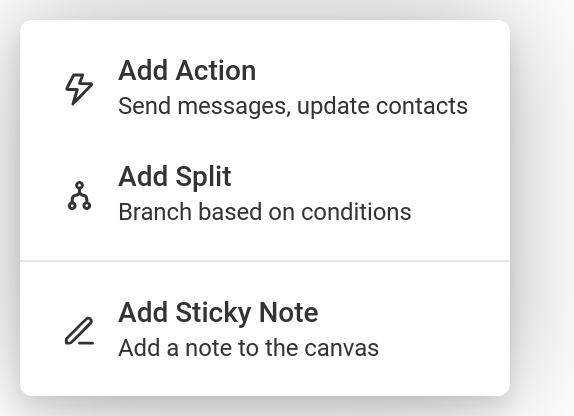
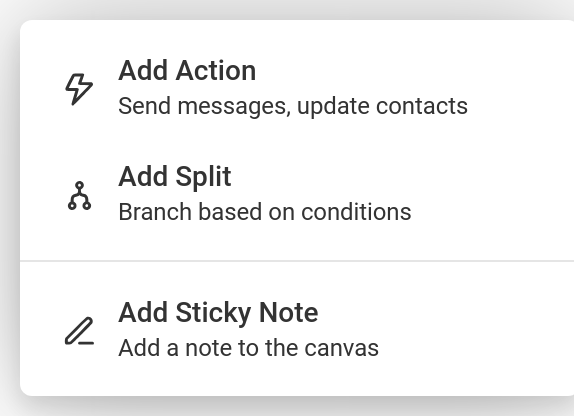
Ensure canvas menu is on screen

Changed region(s): [[0.8589, 0.0625, 1.0, 1.0]]

diff --git a/test/temba-canvas-menu.test.ts b/test/temba-canvas-menu.test.ts
@@ -106,4 +106,51 @@ describe('temba-canvas-menu', () => {
     });
     expect(menu.open).to.be.false;
   });
+
+  it('adjusts position to stay within viewport bounds', async () => {
+    const menu = await createCanvasMenu();
+
+    // open menu at position that would go off screen
+    const viewportWidth = window.innerWidth;
+    const viewportHeight = window.innerHeight;
+    const margin = 10; // matches the margin in CanvasMenu
+
+    // position that would go off the right and bottom edges
+    menu.show(viewportWidth - 50, viewportHeight - 50, {
+      x: 100,
+      y: 100
+    });
+    await menu.updateComplete;
+
+    // wait for position adjustment
+    await new Promise((resolve) => setTimeout(resolve, 100));
+    await menu.updateComplete;
+
+    const menuElement = menu.shadowRoot?.querySelector('.menu') as HTMLElement;
+    expect(menuElement).to.not.be.null;
+
+    const menuRect = menuElement.getBoundingClientRect();
+
+    // verify menu stays within viewport with margin
+    expect(menuRect.right).to.be.at.most(viewportWidth - margin);
+    expect(menuRect.bottom).to.be.at.most(viewportHeight - margin);
+
+    // verify click position is preserved (not adjusted)
+    let selectionFired = false;
+    let selectionDetail = null;
+
+    menu.addEventListener('temba-selection', (event: any) => {
+      selectionFired = true;
+      selectionDetail = event.detail;
+    });
+
+    const menuItems = menu.shadowRoot?.querySelectorAll('.menu-item');
+    const actionItem = menuItems?.[0] as HTMLElement;
+    actionItem.click();
+    await menu.updateComplete;
+
+    expect(selectionFired).to.be.true;
+    // click position should remain unchanged
+    expect(selectionDetail.position).to.deep.equal({ x: 100, y: 100 });
+  });
 });

diff --git a/src/flow/CanvasMenu.ts b/src/flow/CanvasMenu.ts
@@ -31,7 +31,7 @@ export class CanvasMenu extends RapidElement {
         border-radius: var(--curvature);
         box-shadow: var(--dropdown-shadow);
         padding: 0.5em 0;
-        min-width: 200px;
+        width: 280px;
         pointer-events: auto;
       }
 
@@ -120,6 +120,40 @@ export class CanvasMenu extends RapidElement {
     this.y = y;
     this.clickPosition = clickPosition;
     this.open = true;
+
+    // Adjust position after menu renders to ensure it fits on screen
+    requestAnimationFrame(() => {
+      this.adjustPosition();
+    });
+  }
+
+  private adjustPosition(): void {
+    const menuElement = this.shadowRoot?.querySelector('.menu') as HTMLElement;
+    if (!menuElement) return;
+
+    const menuRect = menuElement.getBoundingClientRect();
+    const viewportWidth = window.innerWidth;
+    const viewportHeight = window.innerHeight;
+    const margin = 10; // margin from viewport edges
+
+    let adjustedX = this.x;
+    let adjustedY = this.y;
+
+    // Check if menu goes off the right edge
+    if (this.x + menuRect.width + margin > viewportWidth) {
+      adjustedX = viewportWidth - menuRect.width - margin;
+    }
+
+    // Check if menu goes off the bottom edge
+    if (this.y + menuRect.height + margin > viewportHeight) {
+      adjustedY = viewportHeight - menuRect.height - margin;
+    }
+
+    // Update position if needed
+    if (adjustedX !== this.x || adjustedY !== this.y) {
+      this.x = adjustedX;
+      this.y = adjustedY;
+    }
   }
 
   public close() {
